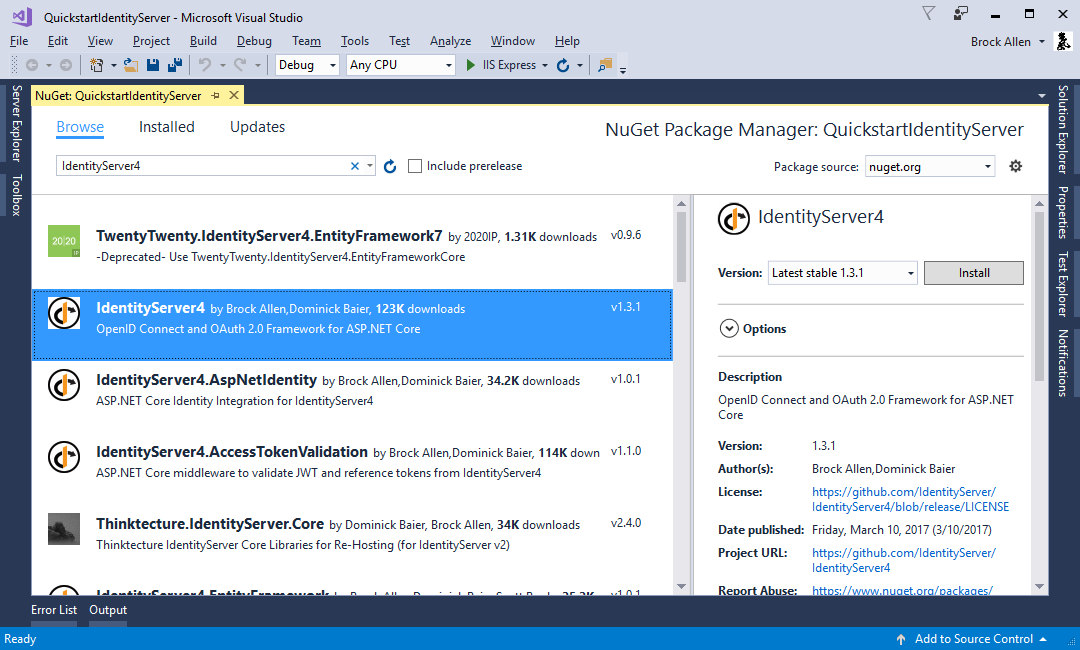
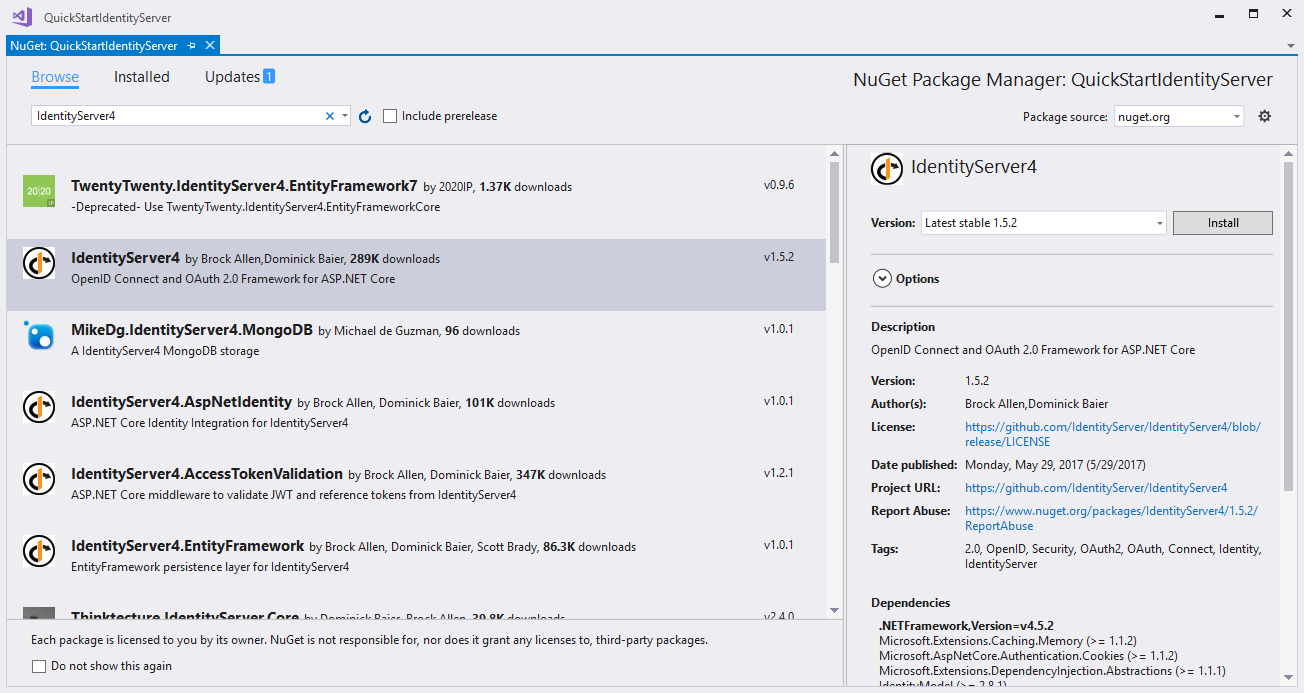
Quickstart overview update (#1357)
* Update Screen shots to reflect latest versions.  Try to fix broken rst syntax

* attempt to fix rst reference

* attempt 2 to figure out rst

* rst check

* rst attempt 4

* rst take 6

* rst take 7

* rst almost figured out

* Update to latest default template, which has UseApplicationInsights.  Remove updates to references as "read the docs" works fine with the :ref:

* fixe reference

* Remove Application Inisights

diff --git a/docs/quickstarts/0_overview.rst b/docs/quickstarts/0_overview.rst
@@ -29,7 +29,7 @@ Start by creating a new ASP.NET Core project.
 
 .. image:: images/0_new_web_project.png
 
-Then select the "Empty Web" option.
+Then select the "Empty" option.
 
 .. image:: images/0_empty_web.png
 
@@ -49,22 +49,26 @@ In ``Configure`` the middleware is added to the HTTP pipeline.
 
 Modify your ``Startup.cs`` file to look like this::
 
-    public class Startup
+  public class Startup
+  {
+    public void Configure(IApplicationBuilder app, IHostingEnvironment env, ILoggerFactory loggerFactory)
     {
-        public void ConfigureServices(IServiceCollection services)
-        {
-            services.AddIdentityServer()
-                .AddTemporarySigningCredential();
-        }
+      loggerFactory.AddConsole();
 
-        public void Configure(IApplicationBuilder app, ILoggerFactory loggerFactory)
-        {
-            loggerFactory.AddConsole(LogLevel.Debug);
-            app.UseDeveloperExceptionPage();
+      if (env.IsDevelopment())
+      {
+        app.UseDeveloperExceptionPage();
+      }
 
-            app.UseIdentityServer();
-        }
+      app.UseIdentityServer();
     }
+
+    public void ConfigureServices(IServiceCollection services)
+    {
+      services.AddIdentityServer()
+        .AddTemporarySigningCredential();
+    }
+  }
 
 ``AddIdentityServer`` registers the IdentityServer services in DI. It also registers an in-memory store for runtime state.
 This is useful for development scenarios. For production scenarios you need a persistent or shared store like a database or cache for that.
@@ -74,13 +78,13 @@ The ``AddTemporarySigningCredential`` extension creates temporary key material f
 Again this might be useful to get started, but needs to be replaced by some persistent key material for production scenarios.
 See the :ref:`cryptography docs <refCrypto>` for more information.
 
-.. Note:: IdentityServer is not yet ready to be launched. In fact, when you try it, you should see an exception at startup time stating that services are missing. We will add those services in the following quickstarts.
+.. Note:: IdentityServer is not yet ready to be launched. We will add the required services in the following quickstarts.
 
 Modify hosting
 ^^^^^^^^^^^^^^^
 
 By default Visual Studio uses IIS Express to host your web project. This is totally fine,
-beside that you won't be able to see the real time log output to the console.
+except that you won't be able to see the real time log output to the console.
 
 IdentityServer makes extensive use of logging whereas the "visible" error message in the UI
 or returned to clients are deliberately vague.
